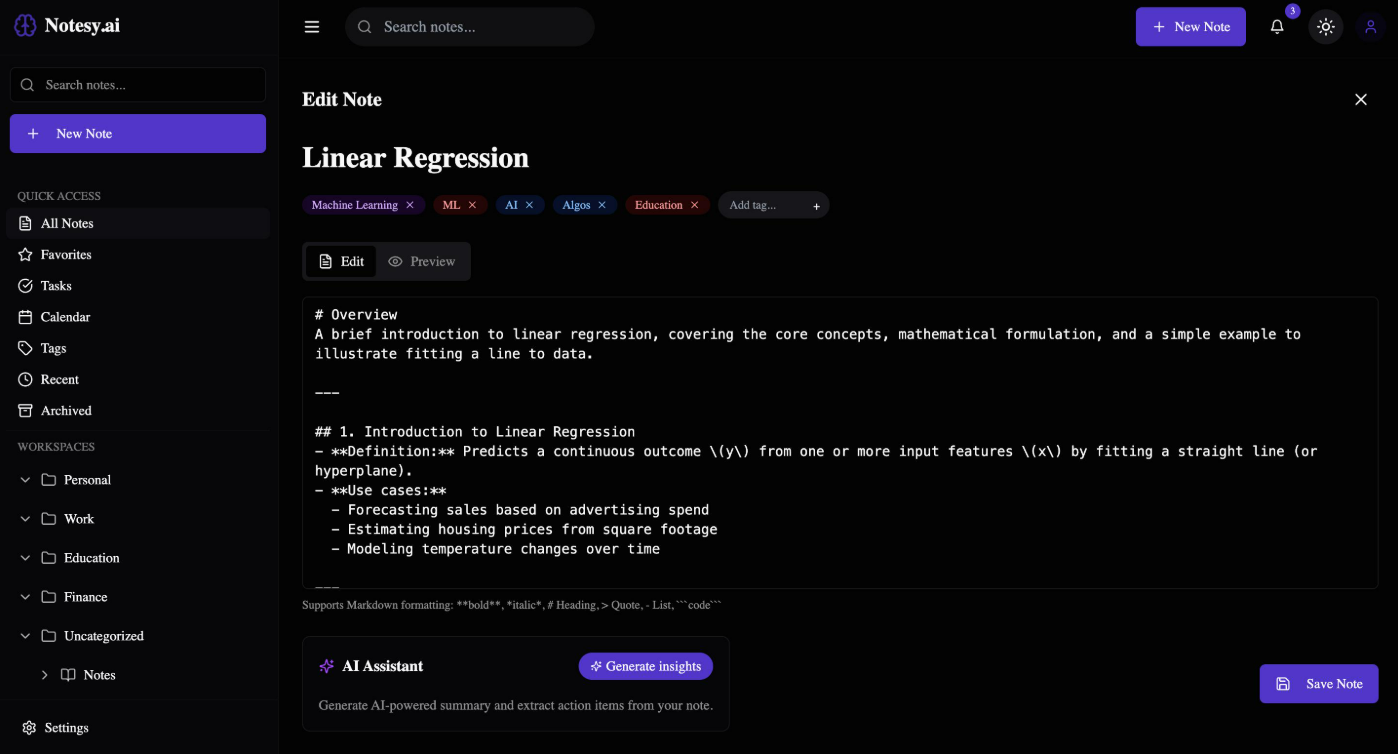
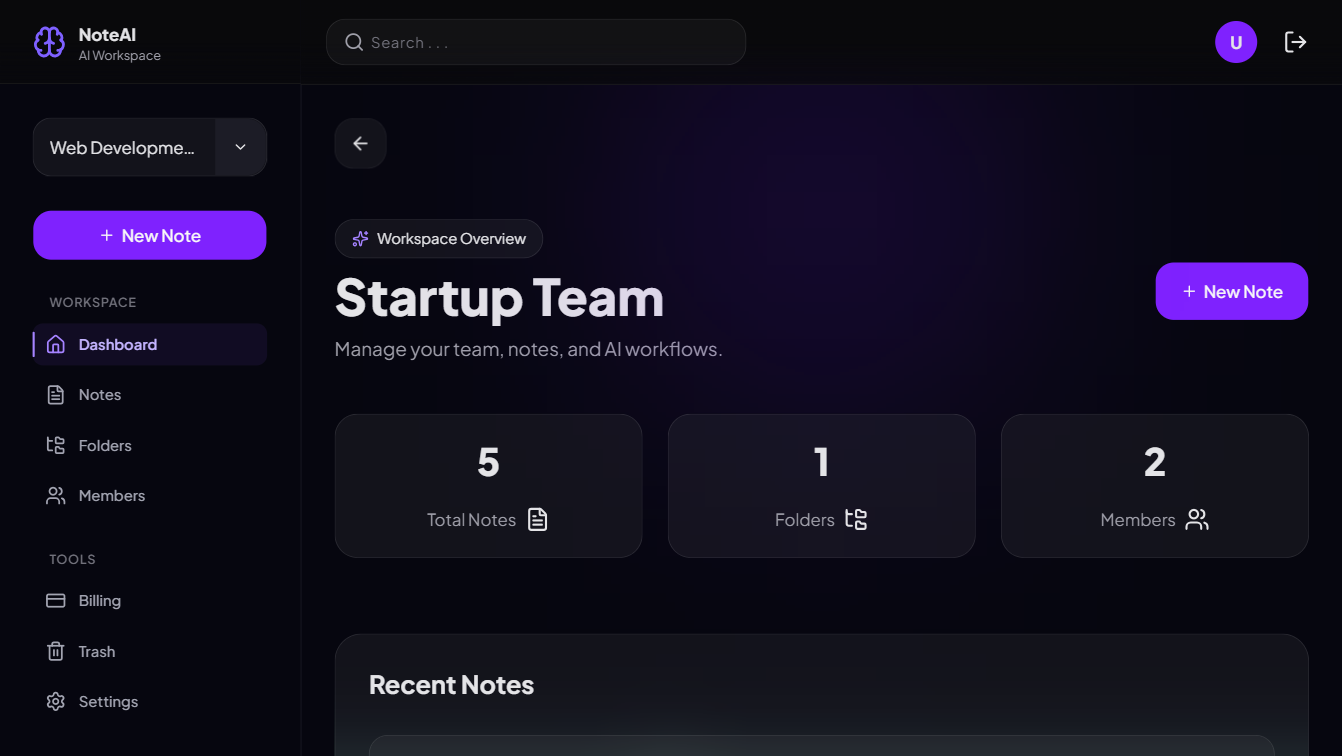
chore: replace note-ai images

diff --git a/src/features/projects/data/projects.ts b/src/features/projects/data/projects.ts
@@ -51,7 +51,7 @@ export const projects: Project[] = [
     featured: true,
 
     image: {
-      src: "/images/projects/noteai/cover.jpg",
+      src: "/images/projects/noteai/cover.png",
       alt: "NoteAI application dashboard",
     },
 
@@ -92,7 +92,7 @@ export const projects: Project[] = [
     featured: false,
 
     image: {
-      src: "/images/projects/noteai/cover.jpg",
+      src: "/images/projects/noteai/cover.png",
       alt: "NoteAI application dashboard",
     },
 
@@ -133,7 +133,7 @@ export const projects: Project[] = [
     featured: false,
 
     image: {
-      src: "/images/projects/noteai/cover.jpg",
+      src: "/images/projects/noteai/cover.png",
       alt: "NoteAI application dashboard",
     },
 

diff --git a/src/features/projects/data/project-images.ts b/src/features/projects/data/project-images.ts
@@ -14,7 +14,7 @@ export const projectImages = {
       description: "The note editing experience.",
     },
     {
-      src: "/images/projects/noteai/workspace.jpg",
+      src: "/images/projects/noteai/workspace.png",
       alt: "NoteAI workspace management interface",
       title: "Workspace management",
       description: "Workspace and member management interface.",
